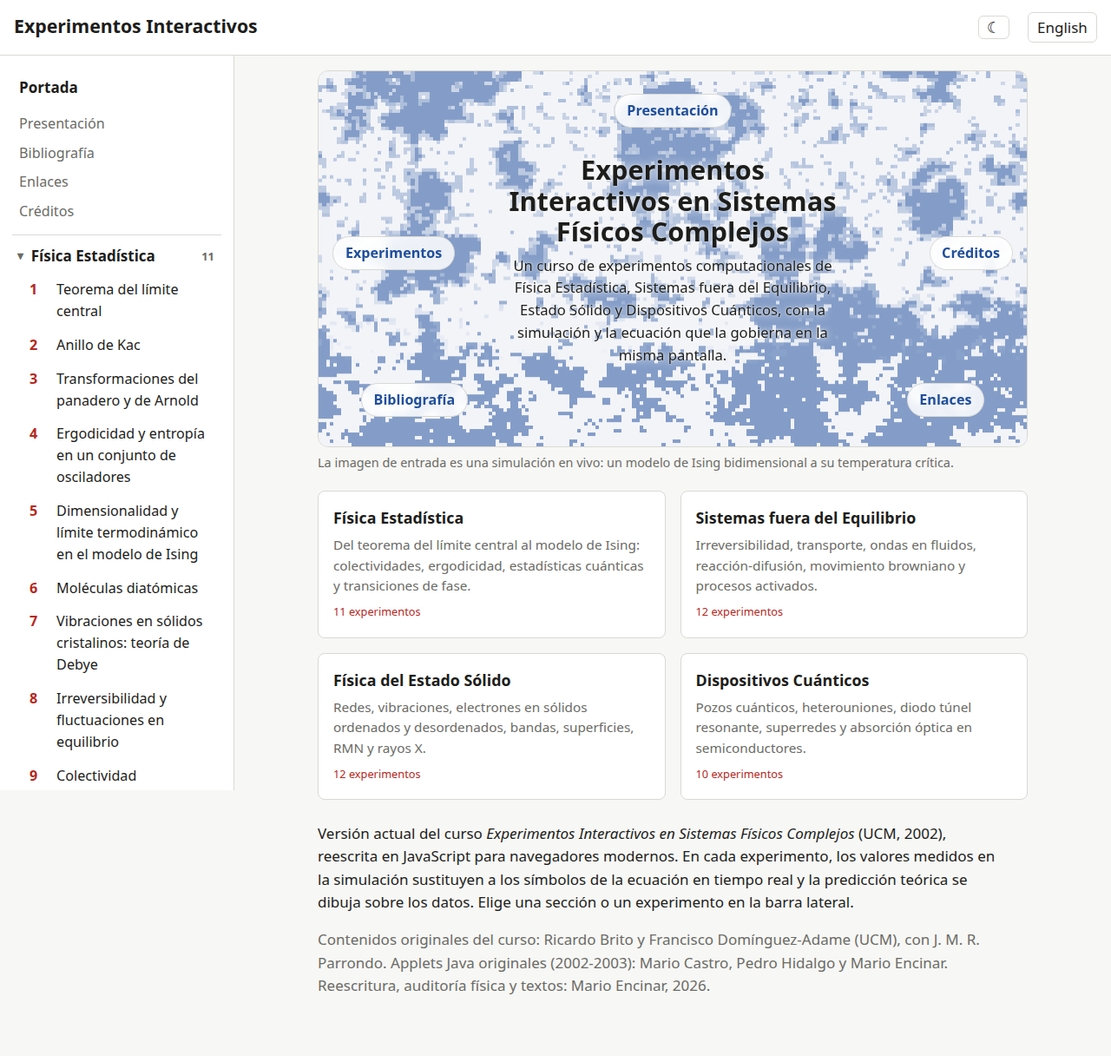
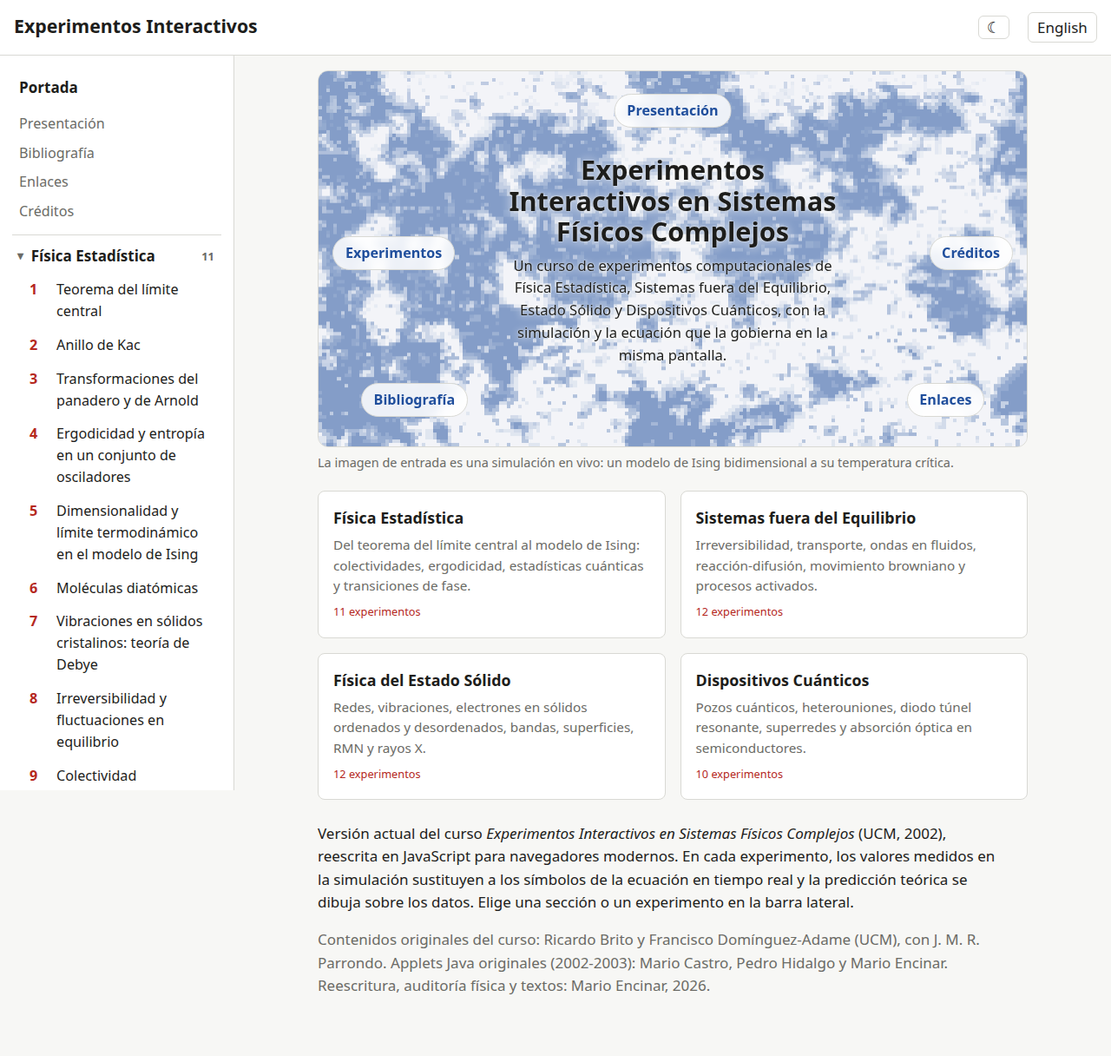
mobile: fix horizontal overflow (hero min-height forced a 640px width; grid column minimum), hero layout for narrow screens, overflow check in smoke; remove TAD asterisk marking; final didactic analysis and proposals document

Changed region(s): [[0.2812, 0.0625, 0.9375, 0.4375]]

diff --git a/assets/style.css b/assets/style.css
@@ -78,7 +78,7 @@ button.icon { padding: 0.2rem 0.55rem; font-size: 1.05rem; line-height: 1; }
 .home p { max-width: 46rem; }
 #nav-toggle { display: none; }
 @media (max-width: 900px) {
-  .course-body { grid-template-columns: 1fr; }
+  .course-body { grid-template-columns: minmax(0, 1fr); }
   #nav-toggle { display: inline-block; }
   .sidebar { display: none; position: static; max-height: none; border-right: none; border-bottom: 1px solid var(--line); }
   body.nav-open .sidebar { display: block; }
@@ -109,8 +109,6 @@ details.sec .theory { padding: 0.2rem 0 0.6rem; }
 .canvases.stack canvas { aspect-ratio: 3 / 1; }
 .canvases.single { grid-template-columns: 1fr; }
 .toggles button[aria-pressed="true"] { border-color: var(--accent); font-weight: 600; }
-.sidebar .tad, .course-head .tad { color: var(--accent); font-weight: 700; margin-left: 0.15em; }
-.sidebar .tad-legend { font-size: 0.85rem; color: var(--muted); margin: 1rem 0.5rem 0; line-height: 1.35; }
 
 /* ---- sidebar sections ---- */
 .sidebar ul.pages { margin: 0.2rem 0 0.6rem; }
@@ -124,7 +122,7 @@ details.sec .theory { padding: 0.2rem 0 0.6rem; }
 .sidebar details.sec-nav summary .count { font-size: 0.75rem; color: var(--muted); font-variant-numeric: tabular-nums; }
 .sidebar details.sec-nav ol a { padding-left: 1.2rem; font-size: 0.95rem; }
 /* ---- landing hero ---- */
-.hero { position: relative; border-radius: 12px; overflow: hidden; aspect-ratio: 16 / 8.5; min-height: 340px; background: var(--panel); border: 1px solid var(--line); }
+.hero { position: relative; border-radius: 12px; overflow: hidden; aspect-ratio: 16 / 8.5; min-height: 340px; width: 100%; max-width: 100%; background: var(--panel); border: 1px solid var(--line); }
 .hero canvas.hero-canvas { position: absolute; inset: 0; width: 100%; height: 100%; display: block; opacity: 0.55; }
 .hero-text { position: absolute; inset: 0; display: flex; flex-direction: column; align-items: center; justify-content: center; text-align: center; padding: 3.6rem 26% 3.4rem; pointer-events: none; }
 .hero-text h2 { margin: 0 0 0.5rem; font-size: clamp(1.2rem, 2.4vw, 1.9rem); line-height: 1.15; text-shadow: 0 1px 12px var(--bg), 0 0 2px var(--bg); }
@@ -141,7 +139,18 @@ details.sec .theory { padding: 0.2rem 0 0.6rem; }
 .card .num { display: inline-block; min-width: 1.6em; padding: 0 0.35em; border-radius: 4px; background: var(--accent); color: var(--accent-fg); font-size: 0.85rem; text-align: center; margin-bottom: 0.4rem; }
 .section-index .lead { font-size: 1.1rem; max-width: 46rem; }
 article.page { max-width: 52rem; }
-@media (max-width: 700px) { .hero-text { padding: 1rem 8%; } .hero-map a.hm { font-size: 0.85rem; padding: 0.25rem 0.6rem; } }
+@media (max-width: 700px) {
+  .hero { aspect-ratio: auto; height: 400px; min-height: 0; }
+  .hero-text { padding: 3rem 6% 3.2rem; }
+  .hero-text h2 { font-size: 1.25rem; }
+  .hero-text p { font-size: 0.9rem; }
+  .hero-map a.hm { font-size: 0.85rem; padding: 0.25rem 0.6rem; }
+  .hm-left, .hm-right { top: auto; bottom: 20%; }
+  .hm-left { left: 4%; } .hm-right { right: 4%; }
+  .hm-bl { left: 4%; bottom: 5%; } .hm-br { right: 4%; bottom: 5%; }
+  .canvases { grid-template-columns: 1fr; }
+  html, body { overflow-x: hidden; }
+}
 .eq-defs { display: grid; grid-template-columns: auto 1fr; gap: 0.15rem 0.7rem; margin: 0.6rem 0 0; padding-top: 0.5rem; border-top: 1px dashed var(--line); font-size: 0.92rem; }
 .eq-defs dt { color: var(--accent); font-weight: 600; white-space: nowrap; }
 .eq-defs dd { margin: 0; color: var(--muted); }

diff --git a/lib/shell.js b/lib/shell.js
@@ -28,7 +28,7 @@ export function isDark() {
   return globalThis.matchMedia?.('(prefers-color-scheme: dark)').matches ?? false;
 }
 
-const expLink = (r, secId) => `<a href="#/${r.slug}" data-slug="${r.slug}"${r.tad ? ` title="${i18n.t('course.tadNote')}"` : ''}><span class="num">${r.sections[secId]}</span><span data-i18n="${r.titleKey}">${i18n.t(r.titleKey)}</span>${r.tad ? '<span class="tad">*</span>' : ''}</a>`;
+const expLink = (r, secId) => `<a href="#/${r.slug}" data-slug="${r.slug}"><span class="num">${r.sections[secId]}</span><span data-i18n="${r.titleKey}">${i18n.t(r.titleKey)}</span></a>`;
 
 export function createShell({ root = '.' } = {}) {
   const d = document;
@@ -37,8 +37,7 @@ export function createShell({ root = '.' } = {}) {
   sidebar.innerHTML = `<a class="home" href="#/" data-i18n="course.home">${i18n.t('course.home')}</a>
     <ul class="pages">${PAGES.map((p) => `<li><a href="#/${p.id}" data-page="${p.id}" data-i18n="${p.titleKey}">${i18n.t(p.titleKey)}</a></li>`).join('')}</ul>
     ${SECTIONS.map((s) => `<details class="sec-nav" data-section="${s.id}"><summary><a href="#/s/${s.id}" data-section-link="${s.id}" data-i18n="${s.titleKey}">${i18n.t(s.titleKey)}</a><span class="count">${experimentsOf(s.id).length}</span></summary>
-      <ol>${experimentsOf(s.id).map((r) => `<li>${expLink(r, s.id)}</li>`).join('') || `<li class="muted">${i18n.t('course.soon')}</li>`}</ol></details>`).join('')}
-    <p class="tad-legend"><span class="tad">*</span> <span data-i18n="course.tadLegend">${i18n.t('course.tadLegend')}</span></p>`;
+      <ol>${experimentsOf(s.id).map((r) => `<li>${expLink(r, s.id)}</li>`).join('') || `<li class="muted">${i18n.t('course.soon')}</li>`}</ol></details>`).join('')}`;
 
   let current = null; // { key, handle }
   let stopHero = null;
@@ -95,12 +94,12 @@ export function createShell({ root = '.' } = {}) {
     title.textContent = i18n.t(s.titleKey); d.title = `${i18n.t(s.titleKey)} · ${i18n.t('course.fullTitle')}`;
     const list = experimentsOf(id);
     content.innerHTML = `<section class="section-index"><p class="lead">${i18n.t(`${s.titleKey}.desc`)}</p>
-      <div class="cards">${list.map((r) => `<a class="card" href="#/${r.slug}"><span class="num">${r.sections[id]}</span><h2>${i18n.t(r.titleKey)}${r.tad ? ' <span class="tad">*</span>' : ''}</h2></a>`).join('')}</div>
+      <div class="cards">${list.map((r) => `<a class="card" href="#/${r.slug}"><span class="num">${r.sections[id]}</span><h2>${i18n.t(r.titleKey)}</h2></a>`).join('')}</div>
       ${list.length ? '' : `<p class="muted">${i18n.t('course.soon')}</p>`}</section>`;
   }
   async function renderExperiment(slug, key) {
     const entry = bySlug(slug), secId = currentSection(slug);
-    title.innerHTML = `<span class="num">${entry.sections[secId]}</span><span>${i18n.t(entry.titleKey)}${entry.tad ? ' <span class="tad">*</span>' : ''}</span>`;
+    title.innerHTML = `<span class="num">${entry.sections[secId]}</span><span>${i18n.t(entry.titleKey)}</span>`;
     d.title = `${i18n.t(entry.titleKey)} · ${i18n.t('course.fullTitle')}`;
     const mod = await import(new URL(`${root}/${entry.path}`, document.baseURI).href);
     if (current?.key !== key) return;

diff --git a/lib/registry.js b/lib/registry.js
@@ -52,11 +52,11 @@ export const REGISTRY = [
     title: { es: 'Procesos de activación: ley de Arrhenius', en: 'Activation processes: Arrhenius law' } },
   { slug: 'resonancia', sections: { sfe: 9 }, titleKey: 'res.title', path: 'applets/resonancia/applet.js',
     title: { es: 'Resonancia estocástica', en: 'Stochastic resonance' } },
-  { slug: 'maxwell', sections: { sfe: 10 }, tad: true, titleKey: 'maxwell.title', path: 'applets/maxwell/applet.js',
+  { slug: 'maxwell', sections: { sfe: 10 }, titleKey: 'maxwell.title', path: 'applets/maxwell/applet.js',
     title: { es: 'Discos duros y distribución de Maxwell', en: 'Hard disks and the Maxwell distribution' } },
-  { slug: 'pila-arena', sections: { sfe: 11 }, tad: true, titleKey: 'pila.title', path: 'applets/pila-arena/applet.js',
+  { slug: 'pila-arena', sections: { sfe: 11 }, titleKey: 'pila.title', path: 'applets/pila-arena/applet.js',
     title: { es: 'Pila de arena y criticalidad autoorganizada', en: 'Sandpile and self-organized criticality' } },
-  { slug: 'von-karman', sections: { sfe: 12 }, tad: true, titleKey: 'vk.title', path: 'applets/von-karman/applet.js',
+  { slug: 'von-karman', sections: { sfe: 12 }, titleKey: 'vk.title', path: 'applets/von-karman/applet.js',
     title: { es: 'Gas reticular con obstáculo: calle de Von Kármán', en: 'Lattice gas with an obstacle: Von Kármán street' } },
 ];
 

diff --git a/lib/i18n.js b/lib/i18n.js
@@ -73,7 +73,6 @@ i18n.register({
     'course.home': 'Portada',
     'course.section': 'Experimentos',
     'course.extras': 'Material adicional',
-    'course.tadLegend': 'Experimentos del Trabajo Académicamente Dirigido de 2003 (M. Encinar), no incluidos en el curso original.',
     'course.tadNote': 'Del TAD de 2003',
     'course.theme': 'Cambiar tema claro/oscuro',
     'course.lead': 'Un curso de experimentos computacionales de Física Estadística, Sistemas fuera del Equilibrio, Estado Sólido y Dispositivos Cuánticos, con la simulación y la ecuación que la gobierna en la misma pantalla.',
@@ -109,7 +108,6 @@ i18n.register({
     'course.home': 'Home',
     'course.section': 'Experiments',
     'course.extras': 'Additional material',
-    'course.tadLegend': 'Experiments from the 2003 supervised project (TAD, M. Encinar), not part of the original course.',
     'course.tadNote': 'From the 2003 TAD',
     'course.theme': 'Toggle light/dark theme',
     'course.lead': 'A course of computational experiments in Statistical Physics, Non-equilibrium Systems, Solid State and Quantum Devices, with the simulation and its governing equation on the same screen.',

diff --git a/docs/analisis-didactico-y-propuestas.md b/docs/analisis-didactico-y-propuestas.md
@@ -1,0 +1,148 @@
+# Experimentos Interactivos en Sistemas Físicos Complejos, versión web
+
+## Análisis didáctico y propuestas de nuevas simulaciones
+
+Mario Encinar · 9 de noviembre de 2026 · Sitio: <https://mepoide.github.io/applets-fisica-ucm/> · Código: <https://github.com/Mepoide/applets-fisica-ucm>
+
+Este documento resume qué es hoy la versión web del curso, qué aporta y qué no desde el punto de vista didáctico, y qué simulaciones nuevas podrían desarrollarse a continuación. Está pensado para decidir, no para describir: cada propuesta lleva una estimación de esfuerzo y de valor.
+
+---
+
+## 1. Estado actual (AS IS)
+
+**Alcance.** Los 42 experimentos del curso original (Física Estadística 11, Sistemas fuera del Equilibrio 9, Física del Estado Sólido 12, Dispositivos Cuánticos 10) más 3 experimentos de 2003 (discos duros y Maxwell, pila de arena, calle de Von Kármán), en total 43 simulaciones distintas. Portada con el mapa de entrada original sobre un modelo de Ising en vivo, páginas de presentación, bibliografía, enlaces y créditos, y versión en inglés de todo el contenido.
+
+**Qué tiene cada experimento.**
+
+- La simulación con sus controles, animada y reiniciable, con velocidad regulable.
+- Un panel de "ecuación viva": la ecuación que gobierna el sistema escrita con KaTeX, con los símbolos sustituidos en tiempo real por los valores que se están midiendo, la definición de cada magnitud debajo y uno o dos indicadores numéricos de acuerdo con la teoría.
+- La predicción teórica dibujada sobre los datos de la simulación.
+- Una ficha de teoría en secciones desplegables: qué se observa, modelo físico, algoritmo, cambios respecto al applet original, pruebas y evaluación didáctica.
+- Una página independiente para incrustar la simulación en otro sitio.
+
+**Tecnología.** HTML, JavaScript y Canvas sin dependencias ni compilación; funciona en cualquier navegador actual, también en móvil, y se puede servir desde cualquier carpeta. La única carga externa son las librerías KaTeX y marked desde un CDN.
+
+**Verificación (comprobada hoy).**
+
+| Comprobación | Resultado |
+|---|---|
+| Tests de física y unidad (`npm test`) | 127 de 127 correctos |
+| Prueba de humo en navegador (todas las rutas, dos idiomas, móvil) | 145 de 145 rutas correctas, en local y contra el sitio desplegado |
+| Acceso al sitio desplegado (portada, registro, applets, fichas, estilos) | HTTP 200 en todas las rutas probadas, 0.2 s por recurso |
+| GitHub Pages | Publicado desde `main`, HTTPS forzado, repositorio público |
+
+Cada test comprueba un resultado físico, no solo que el código no falle: la distribución de Maxwell con χ², el calor específico de Ising frente a Onsager, el pozo cuántico analítico frente a diferencias finitas, el cero de Airy en la heterounión, la escalera de Wannier–Stark, la transmisión por una barrera frente a la fórmula exacta, etc.
+
+**Auditoría de los originales.** En la reescritura se encontraron y corrigieron errores físicos en varios applets y hojas originales. Están documentados en `docs/audit/README.md`; los más relevantes son el contador de colisiones de Maxwell (factor 4), la pila de arena 1D sin criticalidad (se añadió el modelo de Oslo), los pesos de Landau–Placzek en los modos lineales, la pared que absorbía masa en Von Kármán, la tasa de Arrhenius de la ecuación (2) (sobreestima k unas 25 veces en la red usada), el término de masas de la relación de dispersión de las minibandas y el coeficiente de segundo orden del efecto Stark.
+
+---
+
+## 2. Análisis didáctico
+
+### 2.1 Lo que aporta frente al curso de 2002
+
+1. **Comparación cuantitativa en pantalla.** Los applets originales mostraban la simulación; la teoría estaba en la página de al lado. Ahora el estudiante ve la curva teórica sobre los datos y un número que dice cuánto se parecen. Esto convierte "mirar una animación" en "comprobar una predicción", que es el gesto central del método científico y lo que más cuesta transmitir en un laboratorio.
+2. **Controles que importan.** Cada parámetro expuesto cambia algo físico observable (temperatura, desorden, campo, espesor), y el botón de inicio suele lanzar un barrido de ese parámetro que construye una curva (I–V, niveles frente a espesor, minibandas frente a barrera).
+3. **Texto propio, breve y por capas.** La ficha va de lo observable a lo técnico; el estudiante decide hasta dónde baja.
+4. **Funciona.** Los applets Java llevan más de una década sin poder ejecutarse en un navegador normal. La barrera de entrada ahora es cero: un enlace.
+
+### 2.2 La ecuación viva: ¿aporta o es tautológica?
+
+Es la pregunta correcta, y la respuesta depende del experimento. Conviene distinguir tres situaciones, que conviven en el curso:
+
+**Tipo A: la ecuación mostrada es la que se integra.** Ejemplos: ecuaciones de Bloch en RMN, Maginu, Rouard en multicapas, el hamiltoniano de enlace fuerte. Aquí sustituir los símbolos por valores **es tautológico** en sentido estricto: la simulación no puede desobedecer la ecuación. Lo que aporta el panel es otra cosa, más modesta pero real: enlaza cada control con su símbolo (el estudiante ve que "subir el deslizador W" es "hacer crecer esa W de la fórmula"), fija la notación y las unidades, y baja la barrera de lectura de la fórmula. Es una ayuda de lectura, no una comprobación. No debería presentarse como validación.
+
+**Tipo B: la ecuación es una predicción independiente de lo que se simula.** Ejemplos: la maxwelliana frente a discos duros que chocan; la binomial frente a la ocupación de una ventana; Onsager frente a Metrópolis; la tasa de Kramers frente al decaimiento medido de caminantes; Kronig–Penney frente a la transmisión por una cadena finita; el cero de Airy frente a diferencias finitas; la ley balística √2·T·t frente a la expansión del paquete. Aquí el panel **sí aporta**: la simulación podría discrepar (y en los applets originales a veces discrepaba por errores), el acuerdo es un resultado y el desacuerdo enseña algo (tamaño finito, tiempo de correlación, aproximaciones del modelo). Es la situación mayoritaria en Física Estadística y Sistemas fuera del Equilibrio.
+
+**Tipo C: dos métodos para el mismo problema.** Ejemplos: perturbación frente a numérico en el efecto Stark, variacional frente a exacto en la heterounión, una banda frente a dos bandas, modelo δ frente a Kronig–Penney completo, Evjen frente a sumas directas de Madelung. El panel muestra el error de una aproximación y su rango de validez. Esto es valioso y poco habitual en material docente, porque enseña a desconfiar de las fórmulas con criterio.
+
+Recuento aproximado sobre los 43 experimentos: unos 10 de tipo A, unos 20 de tipo B y unos 13 de tipo C. La conclusión es que la ecuación viva es un buen formato, pero **su valor no es uniforme** y la interfaz hoy no distingue los tres casos: el mismo panel rojo con valores sustituidos aparece en RMN (tipo A) y en Ising frente a Onsager (tipo B). Esa indistinción es la crítica más seria que le haría a la versión actual.
+
+### 2.3 Otras limitaciones
+
+- **No hay preguntas.** El curso original planteaba cuestiones al alumno en cada hoja; la versión web explica pero no pregunta. Una simulación sin tarea tiende a usarse como vídeo.
+- **No hay predicción previa.** El estudiante ve la curva teórica desde el primer segundo. La investigación en enseñanza de la física es bastante unánime en que el beneficio de una simulación crece mucho cuando el alumno predice antes de ver.
+- **Ruido estadístico sin tratar.** Varios experimentos de Monte Carlo muestran una curva ruidosa frente a una teórica lisa sin barras de error. Un indicador de "acuerdo" sin incertidumbre es medio indicador.
+- **Un espectro sintético.** En Absorción óptica 2D los datos "medidos" se generan con el propio modelo porque los datos experimentales del applet original no se conservan. Está declarado en la ficha, pero debería sustituirse por datos reales si existen.
+- **Decisiones físicas que necesitan el visto bueno de los autores.** Están listadas en `docs/evaluacion-didactica.md` (fase 3): la masa de barrera en el modelo de dos bandas, el coeficiente exacto de Stark, el término de masas de las minibandas, la ecuación (2) de Arrhenius, el carácter atérmico del FHP en las ondas sonoras.
+
+---
+
+## 3. Hacia dónde ir (TO BE)
+
+Ordenado por relación valor/esfuerzo. Lo primero no requiere nueva física.
+
+1. **Etiquetar el tipo de comparación en cada panel** (A: "la ecuación del modelo", B: "predicción teórica frente a medida", C: "dos métodos"). Un día de trabajo; corrige la crítica principal de 2.2.
+2. **Modo "predice primero".** La curva teórica y los indicadores quedan ocultos hasta que el alumno introduce su predicción (un número o un boceto con el ratón) o pulsa "mostrar". Dos o tres días; afecta a todos los experimentos a través del panel común.
+3. **Preguntas guiadas por experimento**, recuperando el espíritu de las hojas originales: tres o cuatro cuestiones con respuesta comprobable en la propia simulación ("¿a qué kT es máxima la respuesta? Compruébalo con el barrido"). Una semana de redacción para 43 experimentos; es trabajo de los autores más que de programación.
+4. **Barras de error e incertidumbre** en los indicadores de tipo B (bloques, bootstrap). Dos o tres días.
+5. **Exportación de datos** (CSV de la curva medida y la teórica) para que la simulación sirva de "instrumento" en prácticas con análisis posterior en hoja de cálculo o Python. Un día.
+6. **Cuaderno de laboratorio**: guardar en el navegador los parámetros y resultados de cada sesión, con un informe imprimible. Una semana.
+7. **Datos reales en Absorción 2D** y revisión de las decisiones físicas pendientes con los autores. Depende de la disponibilidad de los datos.
+
+---
+
+## 4. Propuestas de nuevas simulaciones
+
+Criterios: que llenen un hueco conceptual del curso, que tengan una comparación teoría–simulación clara (tipo B o C) y que reutilicen los módulos ya escritos (discos duros por eventos, caminantes Metrópolis, autómata FHP, cadenas y matrices de transferencia, Schrödinger de masa efectiva, álgebra lineal). Esfuerzo: bajo (1–2 días), medio (3–5 días), alto (más de una semana).
+
+### Física Estadística
+
+| Propuesta | Física y comparación | Qué aprende el estudiante | Esfuerzo |
+|---|---|---|---|
+| **Teorema H de Boltzmann** | H(t) = ∫f ln f calculado sobre los discos duros de Maxwell, decreciente hasta el valor de equilibrio; inversión de velocidades para mostrar la recurrencia | Irreversibilidad desde una dinámica reversible; sensibilidad a las condiciones iniciales | Bajo (reutiliza el motor de discos) |
+| **Percolación 2D** | Probabilidad de percolar frente a p, p_c = 0.5927, exponentes de tamaño finito | Transición de fase geométrica, escalado de tamaño finito, colapso de datos | Medio |
+| **Algoritmo de Wolff y ralentización crítica** | Tiempo de autocorrelación de m frente a T con Metrópolis y con Wolff; exponente dinámico z | Por qué Metrópolis falla en T_c; algoritmos de cúmulos | Medio (reutiliza Ising) |
+| **Modelo XY y transición de Kosterlitz–Thouless** | Vórtices, rigidez de espín, salto universal 2/π | Transiciones sin parámetro de orden; defectos topológicos | Alto |
+| **Pila de arena BTW 2D** | Avalanchas sobre una red cuadrada, P(s) y P(t), colapso con L | La imagen clásica de la criticalidad autoorganizada, que el 1D no da | Medio |
+| **Gas de Lorentz** | Partícula entre dispersores fijos; coeficiente de difusión frente a densidad y comparación con Boltzmann | Difusión determinista, caos, límite de Boltzmann–Grad | Bajo-medio (motor de discos) |
+
+### Sistemas fuera del Equilibrio
+
+| Propuesta | Física y comparación | Qué aprende el estudiante | Esfuerzo |
+|---|---|---|---|
+| **Trinquete browniano intermitente y juegos de Parrondo** | Potencial de dientes de sierra que se enciende y apaga; corriente neta frente a frecuencia; juegos A y B con capital frente al tiempo | Cómo el ruido más una asimetría producen transporte sin fuerza neta; segundo principio a salvo. Conecta con la línea de investigación de J. M. R. Parrondo | Medio (reutiliza los caminantes) |
+| **Igualdad de Jarzynski y teorema de fluctuación de Crooks** | Partícula en trampa armónica arrastrada; histograma del trabajo; ⟨e^{−βW}⟩ = e^{−βΔF} | Termodinámica estocástica, relaciones exactas lejos del equilibrio | Medio |
+| **Boltzmann en red D2Q9 con obstáculo** | Canal con cilindro, calle de Von Kármán limpia, número de Strouhal frente a Reynolds (St ≈ 0.2) | Hidrodinámica sin ruido estadístico, lo que el FHP no puede dar en un navegador | Medio-alto |
+| **Modelo de tráfico de Nagel–Schreckenberg** | Diagrama fundamental flujo–densidad, atascos fantasma | Transición de fase dinámica en un sistema cotidiano | Bajo |
+| **Modelo de votantes y consenso** | Tiempo de consenso frente a N, interfaces | Dinámica de opinión como modelo de física estadística | Bajo |
+| **Fluctuaciones con discos duros y compresibilidad** | Varianza de N en una ventana frente a densidad; comparación con la ecuación de estado | Relación fluctuación–respuesta en un sistema con interacción | Bajo (une dos módulos existentes) |
+
+### Física del Estado Sólido
+
+| Propuesta | Física y comparación | Qué aprende el estudiante | Esfuerzo |
+|---|---|---|---|
+| **Enlace fuerte en grafeno** | Bandas sobre la red hexagonal, conos de Dirac, densidad de estados lineal | Estructura de bandas 2D, dispersión relativista efectiva | Medio |
+| **Mariposa de Hofstadter** | Red cuadrada con flujo magnético por celda; espectro frente a flujo | Bandas de Landau, fractalidad, topología | Medio (reutiliza álgebra lineal) |
+| **Localización de Anderson en 2D** | Razón de participación y escalado con L; comparación con la teoría de escala | Diferencia entre 1D (siempre localizado) y 2D (marginal) | Medio |
+| **Transición de Peierls** | Cadena con dimerización; energía electrónica frente a distorsión; apertura del gap | Inestabilidad del metal 1D, acoplamiento electrón-red | Bajo-medio (reutiliza cadenas) |
+| **Plasmones y función dieléctrica de Lindhard** | ε(q,ω) del gas de electrones, dispersión del plasmón, apantallamiento de Friedel | Respuesta colectiva del gas de electrones | Medio |
+| **Dinámica molecular de un cristal de Lennard-Jones** | Fusión, factor de estructura, fonones por autocorrelación de velocidades | De los átomos a la termodinámica de un sólido | Alto |
+
+### Dispositivos Cuánticos
+
+| Propuesta | Física y comparación | Qué aprende el estudiante | Esfuerzo |
+|---|---|---|---|
+| **Paquete de ondas dependiente del tiempo** (Crank–Nicolson) | Un paquete gaussiano incide sobre barrera, doble barrera y superred; transmisión frente a la curva estacionaria T(E) ya calculada | El efecto túnel como proceso en el tiempo; el retardo en la resonancia | Medio (reutiliza el módulo de Schrödinger) |
+| **Diodo túnel resonante autoconsistente** | Carga acumulada en el pozo (Poisson) y biestabilidad de la I–V | Por qué la I–V real tiene histéresis | Medio |
+| **Bloqueo de Coulomb y transistor de un electrón** | Diamantes de Coulomb en el plano V_g–V_sd; escalera de Coulomb | Cuantización de la carga como recurso de dispositivo | Medio |
+| **Punto cuántico 2D** | Niveles de un pozo 2D parabólico o cuadrado; capas; llenado con Hund | Átomos artificiales | Medio |
+| **Anillo de Aharonov–Bohm** | Transmisión frente a flujo en un anillo de enlace fuerte con dos brazos | Interferencia cuántica controlada por un campo que la partícula no toca | Bajo-medio (reutiliza cadenas) |
+| **Conductancia cuantizada en un contacto puntual** | Landauer–Büttiker con N canales; escalones de 2e²/h frente a anchura | De la transmisión a la conductancia medible | Medio |
+| **Oscilaciones de Bloch en superred con emisión THz** | Enlaza el experimento 11 de Estado Sólido con el 8 de Dispositivos: corriente y espectro de la oscilación | El mismo hamiltoniano visto como dispositivo | Bajo (reutiliza dos módulos) |
+
+### Transversal
+
+| Propuesta | Descripción | Esfuerzo |
+|---|---|---|
+| **Itinerarios** | Secuencias guiadas de 4–6 experimentos con un hilo ("del caos molecular a la difusión", "de los niveles a las bandas", "transiciones de fase") y preguntas entre pasos | Bajo (es contenido) |
+| **Modo examen o práctica evaluable** | Parámetros ocultos sorteados por estudiante, que debe medir y entregar (como ya hace el ajuste de γ en Absorción 2D) | Medio |
+| **Versión descargable** | Un ZIP autocontenido para usar sin red en un aula | Bajo |
+
+---
+
+## 5. Recomendación
+
+Si hubiera que elegir tres cosas para el próximo curso: (1) etiquetar los tipos de comparación y añadir el modo "predice primero", porque multiplican el valor de lo que ya existe sin escribir física nueva; (2) redactar las preguntas guiadas con los autores, que es donde el curso original tenía su fuerza; (3) desarrollar dos simulaciones nuevas de las que cierran huecos conceptuales y tienen tirón, el trinquete de Parrondo en Sistemas fuera del Equilibrio y el paquete de ondas dependiente del tiempo en Dispositivos Cuánticos.
+
+Todo el material es abierto y está en el repositorio; cualquier cambio en los textos o en la física lo podemos hacer en horas, no en meses.

diff --git a/README.md b/README.md
@@ -65,9 +65,9 @@ standalone page to embed.
 | 7 | `#/potencial` | Difusión en un potencial externo | Diffusion in an external potential |
 | 8 | `#/arrhenius` | Procesos de activación: ley de Arrhenius | Activation processes: Arrhenius law |
 | 9 | `#/resonancia` | Resonancia estocástica | Stochastic resonance |
-| 10* | `#/maxwell` | Discos duros y distribución de Maxwell | Hard disks and the Maxwell distribution |
-| 11* | `#/pila-arena` | Pila de arena y criticalidad autoorganizada | Sandpile and self-organized criticality |
-| 12* | `#/von-karman` | Gas reticular con obstáculo: calle de Von Kármán | Lattice gas with an obstacle: Von Kármán street |
+| 10 | `#/maxwell` | Discos duros y distribución de Maxwell | Hard disks and the Maxwell distribution |
+| 11 | `#/pila-arena` | Pila de arena y criticalidad autoorganizada | Sandpile and self-organized criticality |
+| 12 | `#/von-karman` | Gas reticular con obstáculo: calle de Von Kármán | Lattice gas with an obstacle: Von Kármán street |
 
 ### Física del Estado Sólido / Solid State Physics (`#/s/fes`)
 
@@ -100,8 +100,6 @@ standalone page to embed.
 | 8 | `#/superred-enlace-fuerte` | Aproximación de enlace fuerte a las superredes | Tight-binding approximation to superlattices |
 | 9 | `#/superred-gaussiana` | Superredes gaussianas de GaAs-AlGaAs | Gaussian GaAs-AlGaAs superlattices |
 | 10 | `#/absorcion-2d` | Absorción óptica en sistemas bidimensionales | Optical absorption in two-dimensional systems |
-
-\* Experimentos del TAD de 2003, no incluidos en el curso original. / Experiments from the 2003 TAD, not in the original course.
 
 Los experimentos 2 y 8 de Física Estadística son los mismos que 1 y 2 de Sistemas fuera del
 Equilibrio (el curso original también los compartía); `macro` reutiliza la vista de ventana de
@@ -173,5 +171,6 @@ Java code is frozen on the `legacy-java` branch.
 - Contexto histórico (TAD 2003, curso original, R. Brito) / historical context: [`docs/contexto/README.md`](docs/contexto/README.md).
 - Auditoría física / physics audit: [`docs/audit/README.md`](docs/audit/README.md).
 - Evaluación didáctica / didactic evaluation: [`docs/evaluacion-didactica.md`](docs/evaluacion-didactica.md).
+- Análisis didáctico final y propuestas de nuevas simulaciones / final didactic analysis and proposals: [`docs/analisis-didactico-y-propuestas.md`](docs/analisis-didactico-y-propuestas.md).
 - Especificaciones y planes / specs and plans: [`docs/superpowers/`](docs/superpowers/).
 - Capturas / screenshots: [`docs/screenshots/`](docs/screenshots/).
